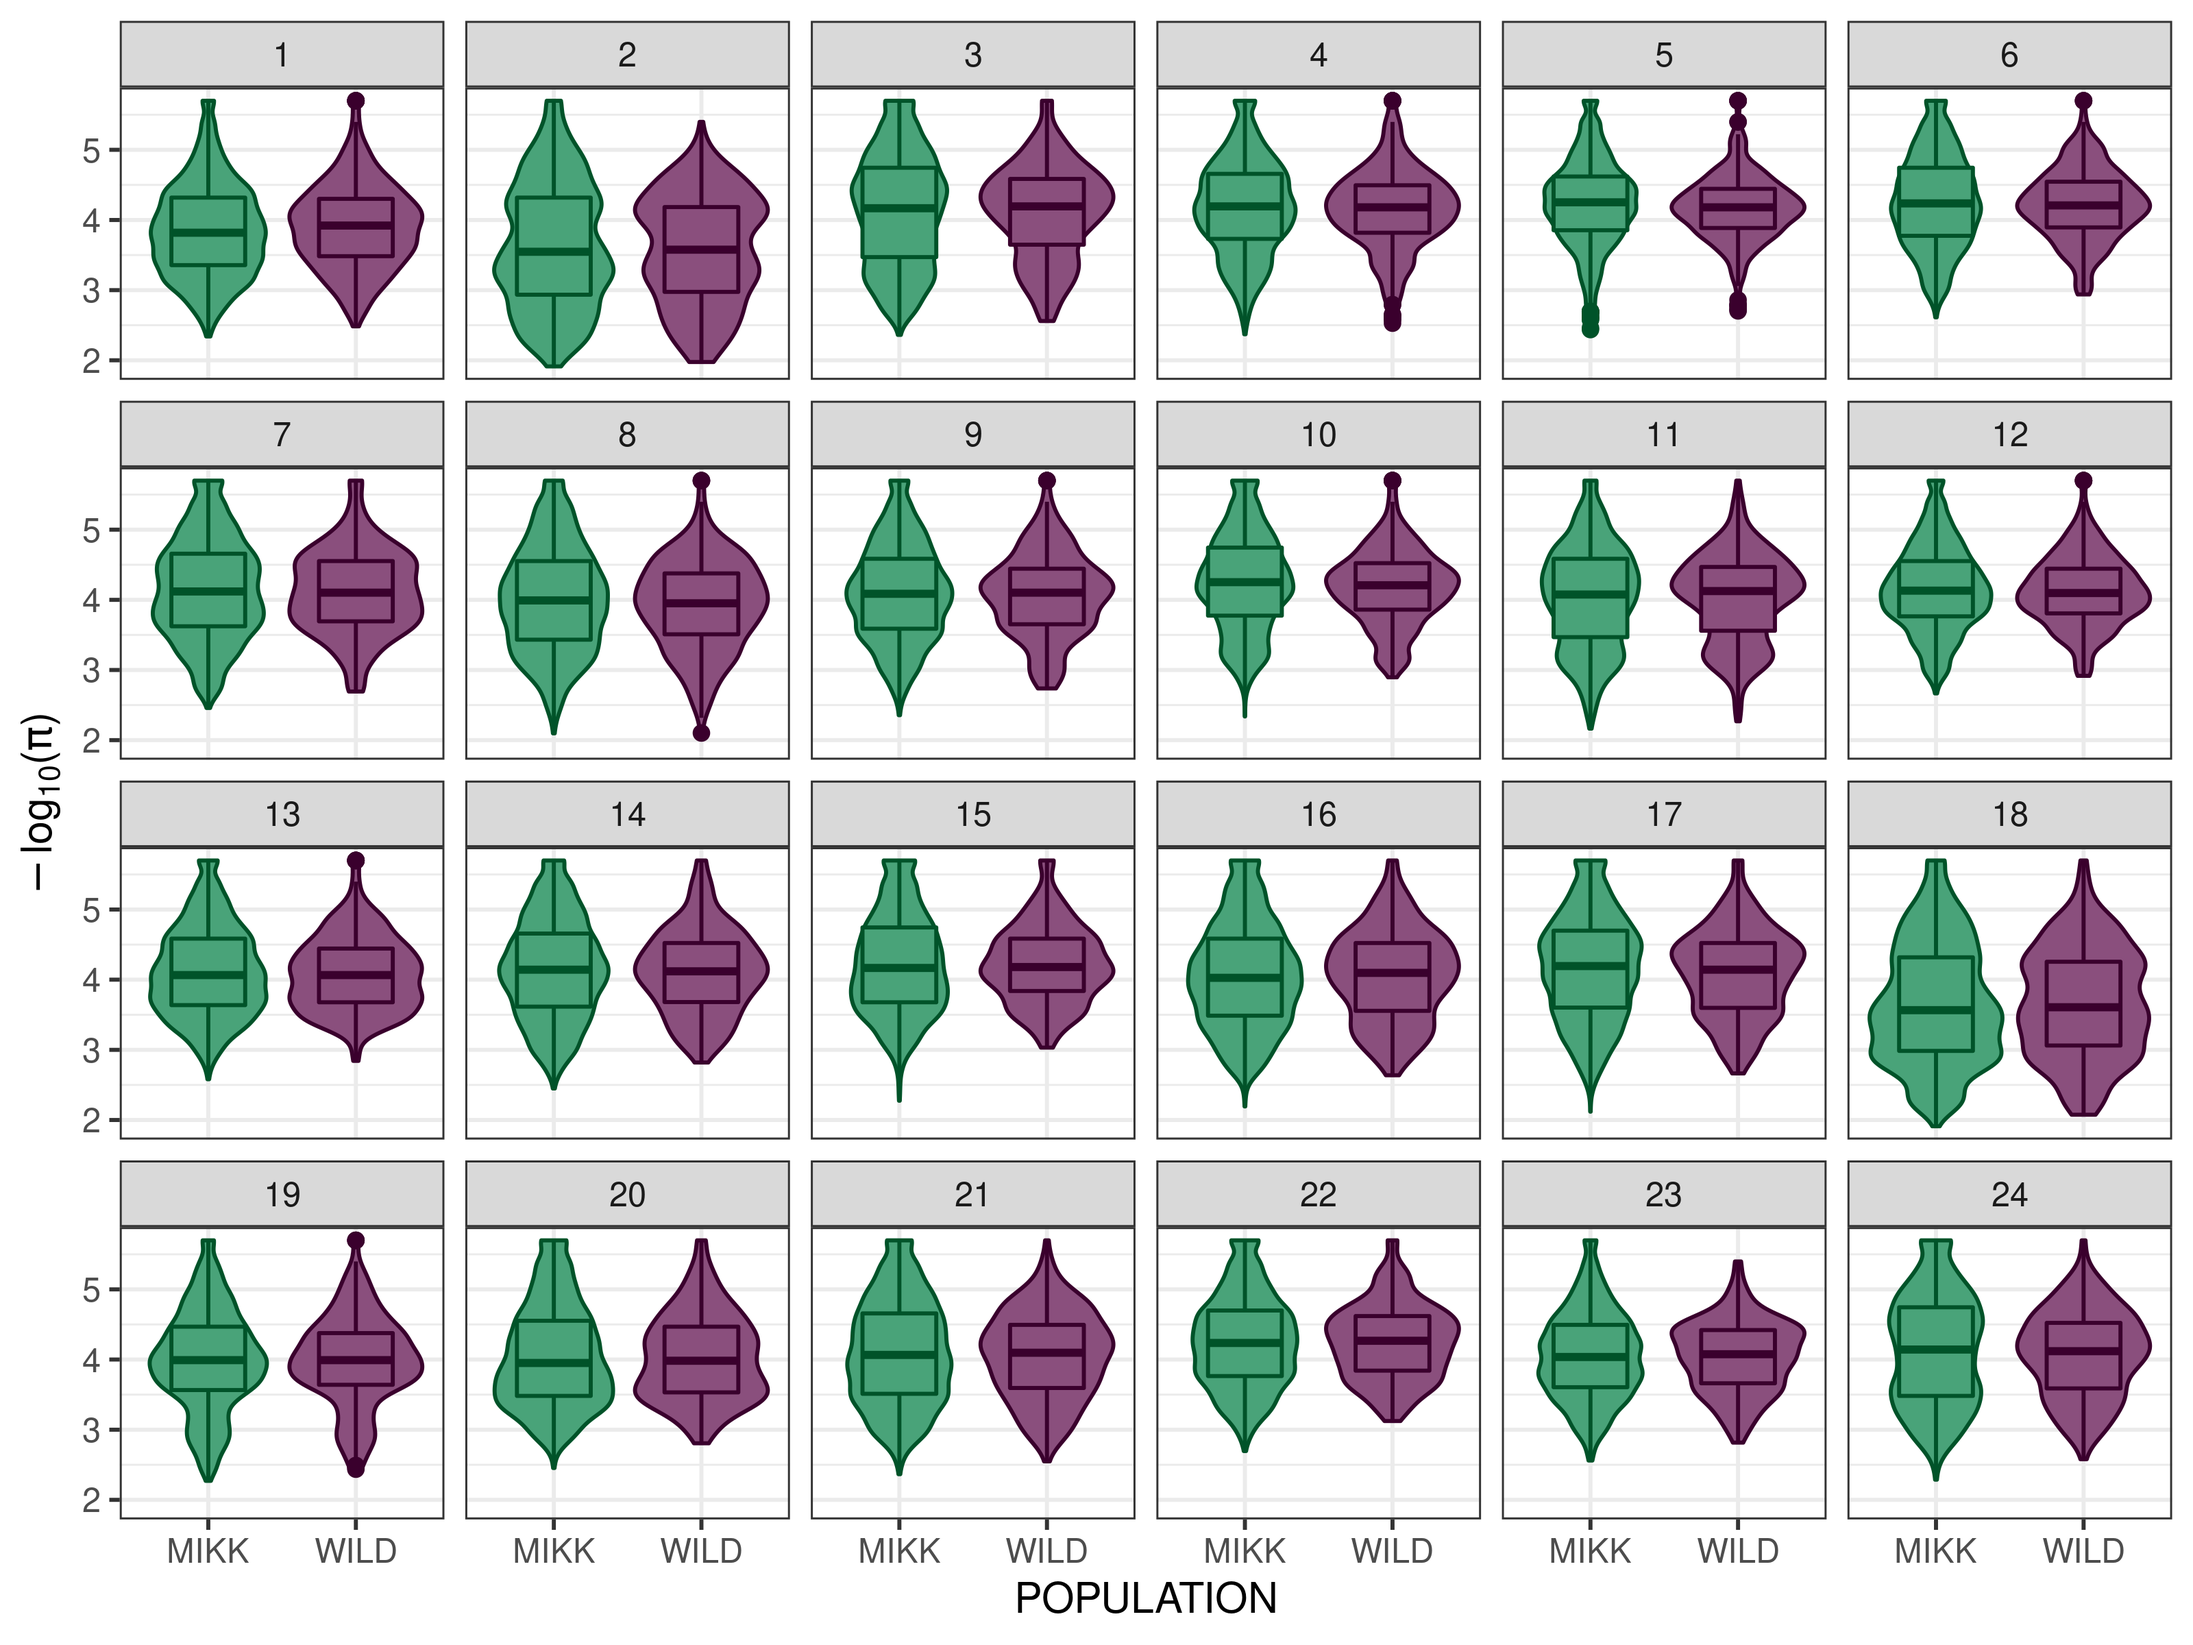
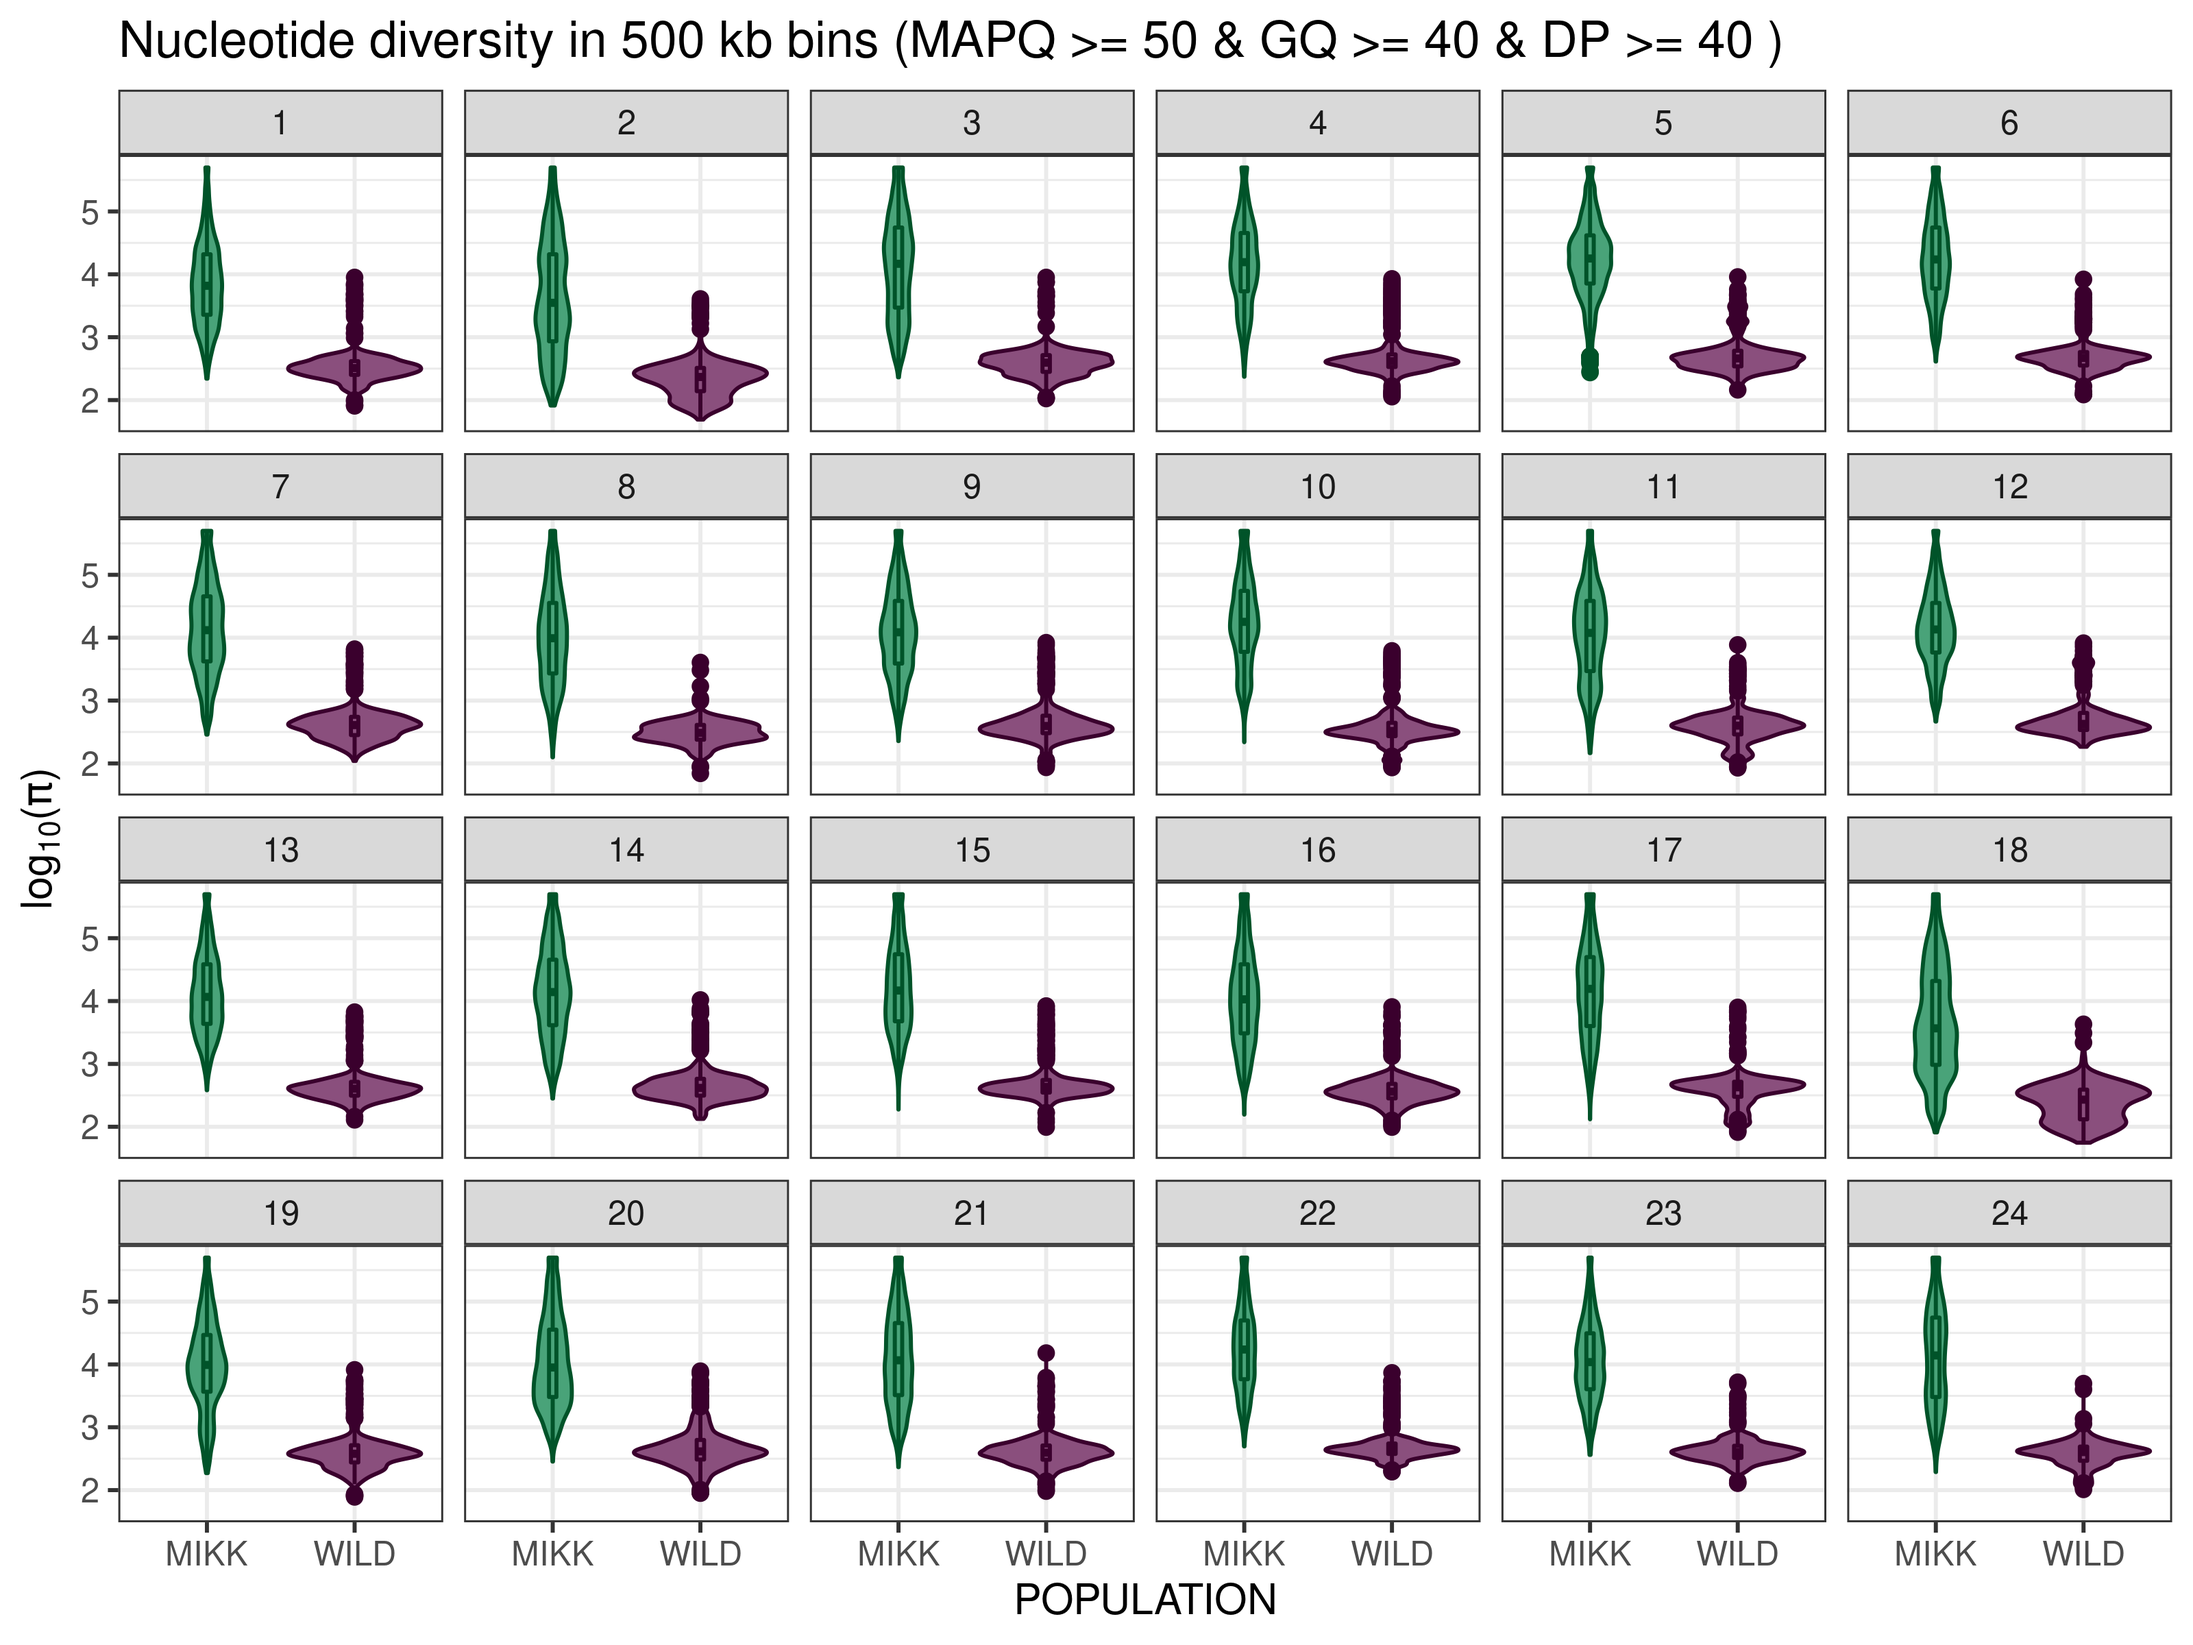
20211013 update from Codon

diff --git a/code/snakemake/nucleotide_diversity/README.md b/code/snakemake/nucleotide_diversity/README.md
@@ -1,5 +1,5 @@
 # Analysis of nucleotide diversity in the MIKK panel
 
-## Reviewer comments:
+This section is directed towards addressing the following reviewer comment:
 
 > Authors should calculate the conventionally used parameter (nucleotide diversity or Pi) to summarize the genetic diversity. For this analyses, authors could do the sliding window analyses within each chromosome. The sex determination locus in Chr1 should show higher Pi. Moreover, I wonder how high the Pi is for the natural population of medaka. If MIKK's genome-wide median Pi is similar to natural medaka, it would strongly argue that MIKK has a high level of diversity. 
